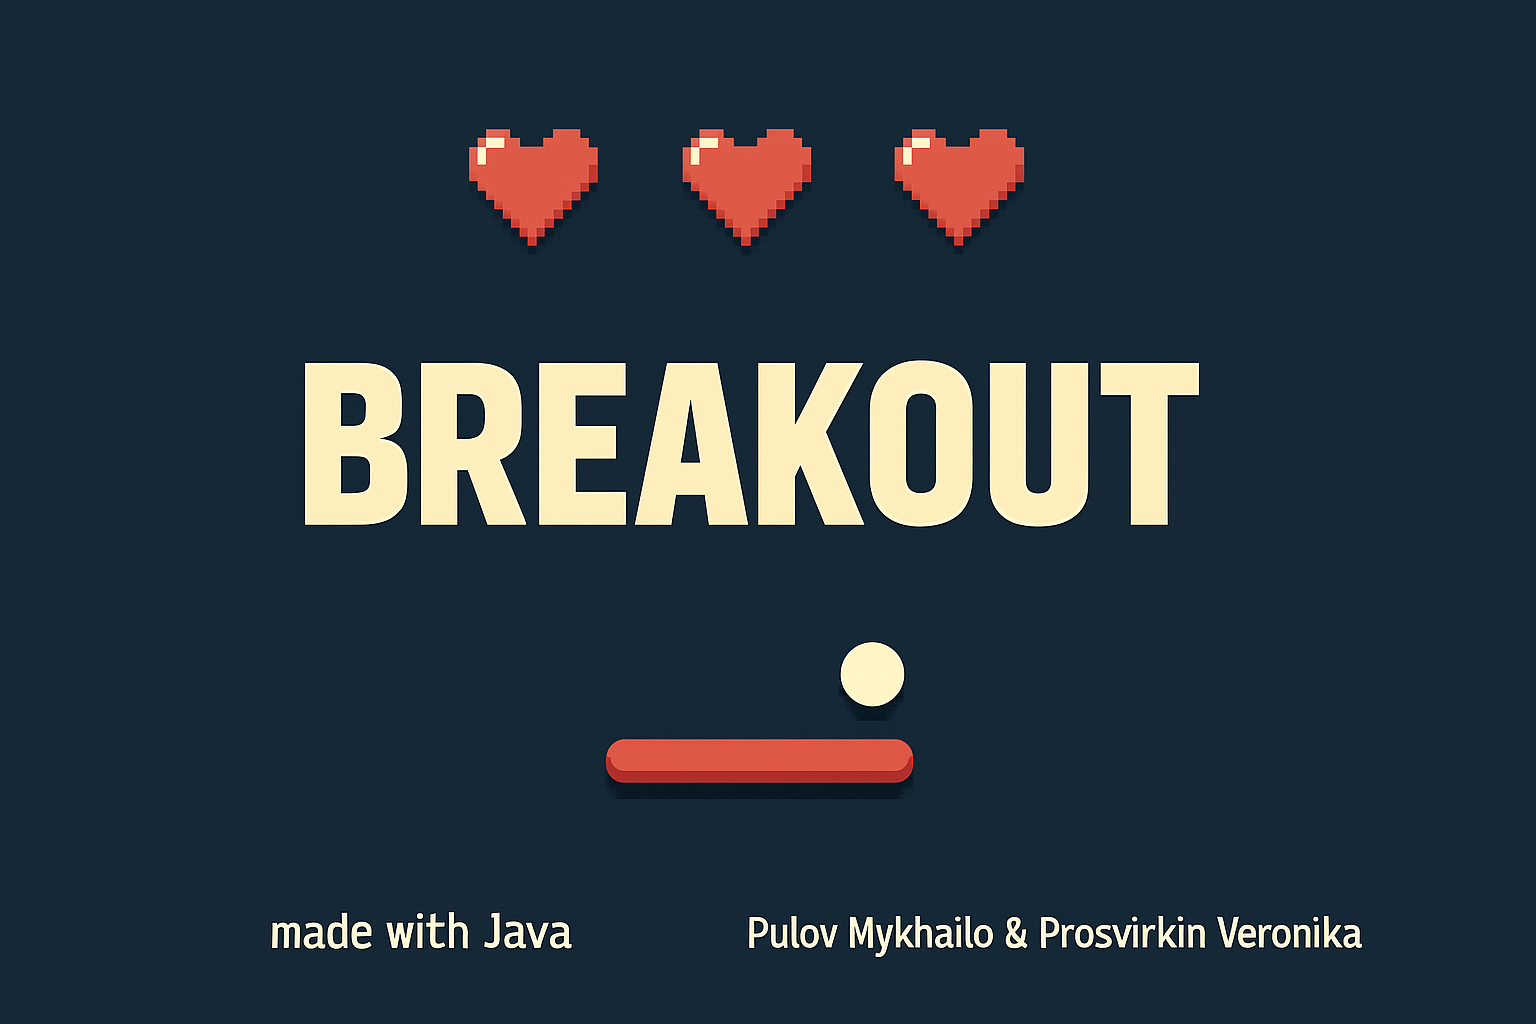
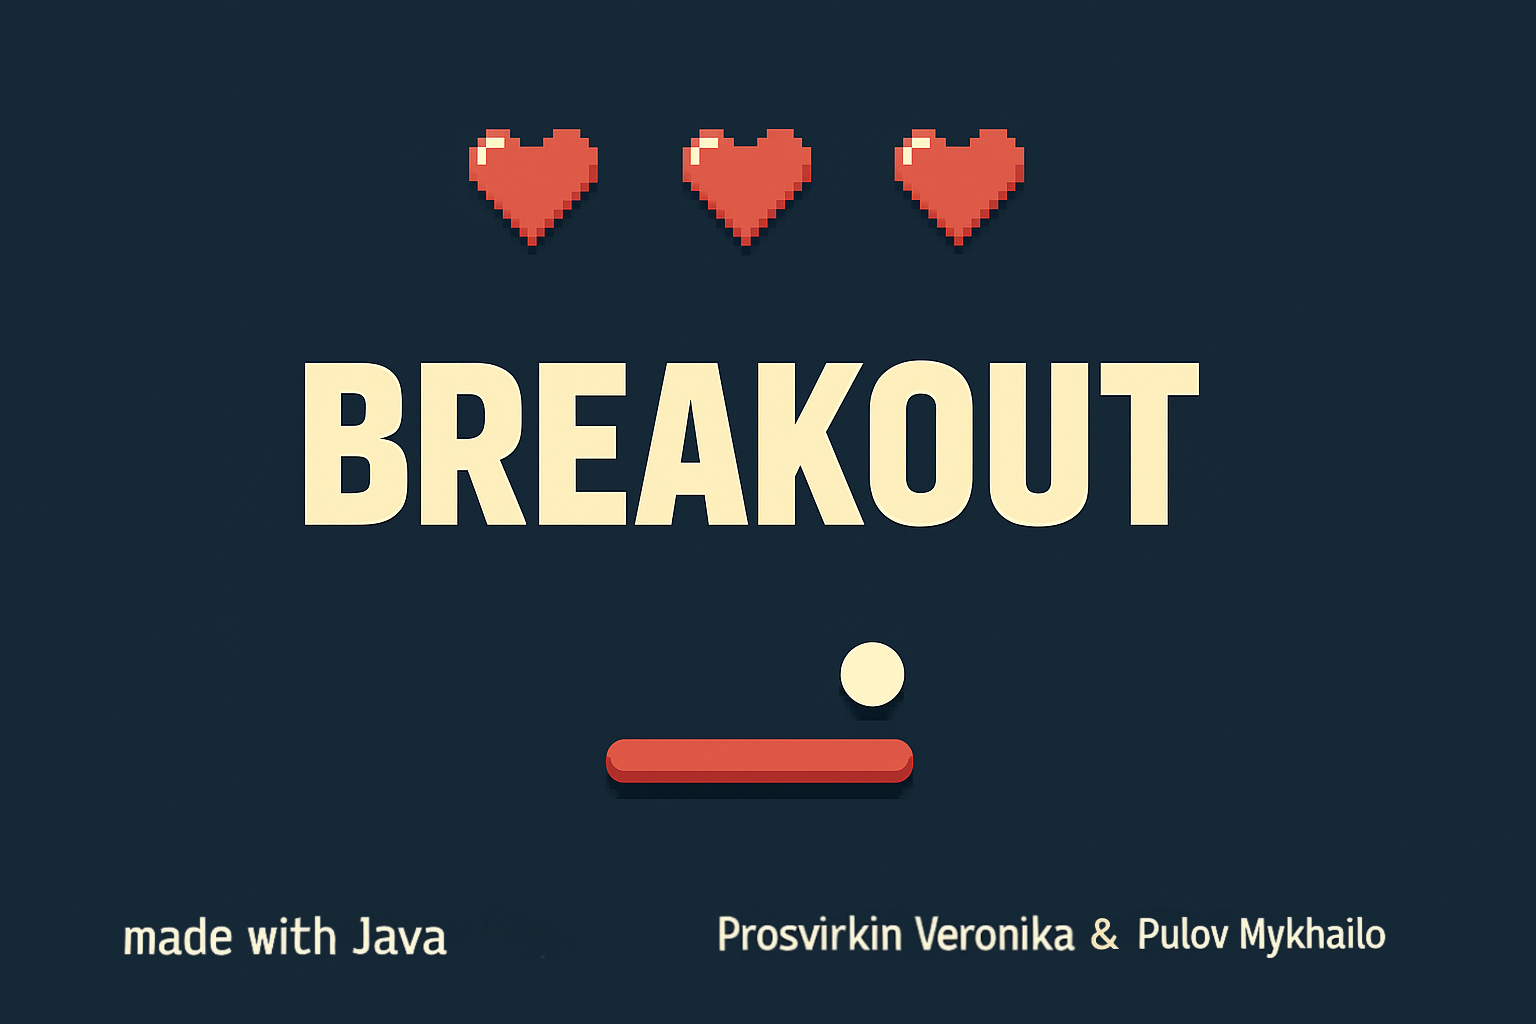
Corrected the load screen

Changed region(s): [[0.4688, 0.875, 0.9062, 0.9375], [0.0625, 0.875, 0.375, 0.9375]]

diff --git a/kurwa/src/Breakout.java b/kurwa/src/Breakout.java
@@ -368,6 +368,7 @@ public class Breakout extends GraphicsProgram {
     /** ============== APP CONFIGURATION ============== */
     // ===== loading menu =====
     private void configureLoadingApp(){
+        setBackground(bgColor);
         GImage imageLoading = new GImage("images/loadingScreen.png");
         imageLoading.setSize(SETTING_WINDOW_WIDTH, SETTING_WINDOW_HEIGHT);
         imageLoading.setLocation(0,0);
